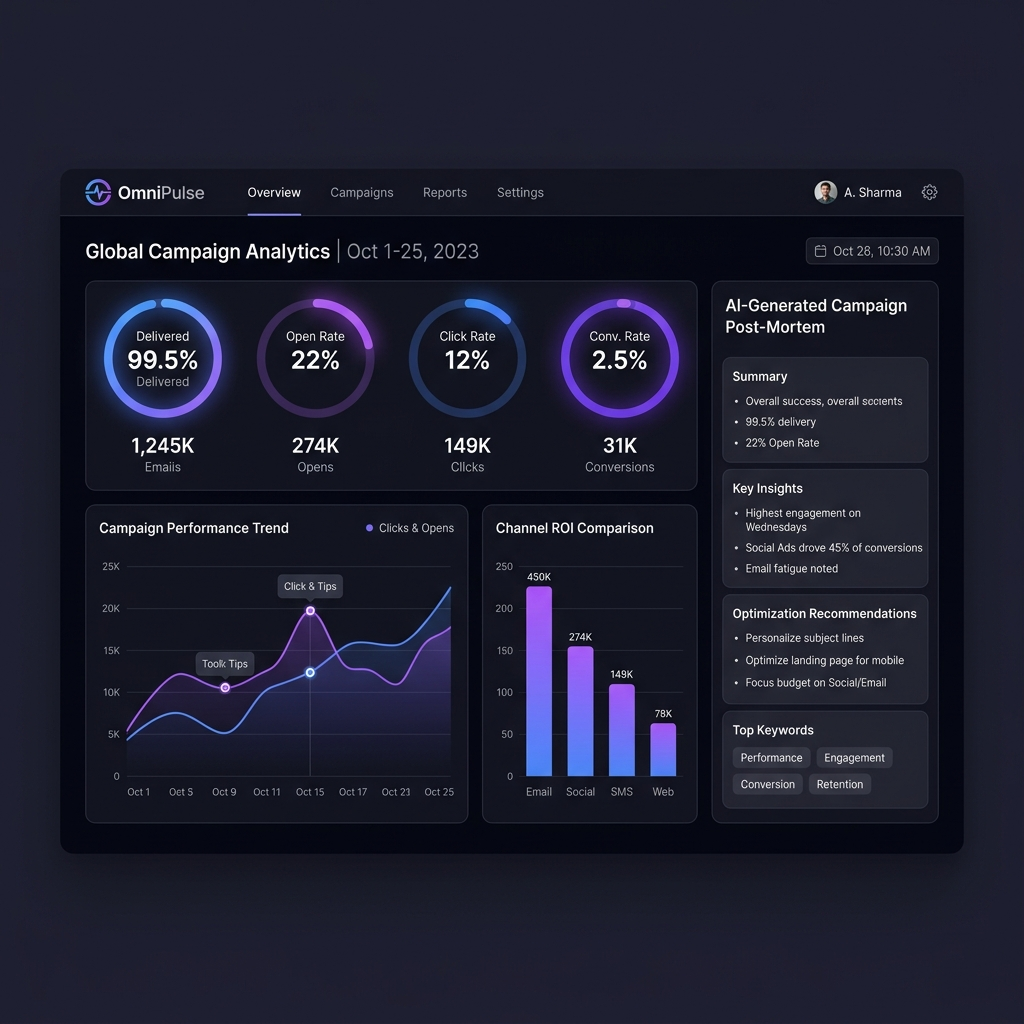
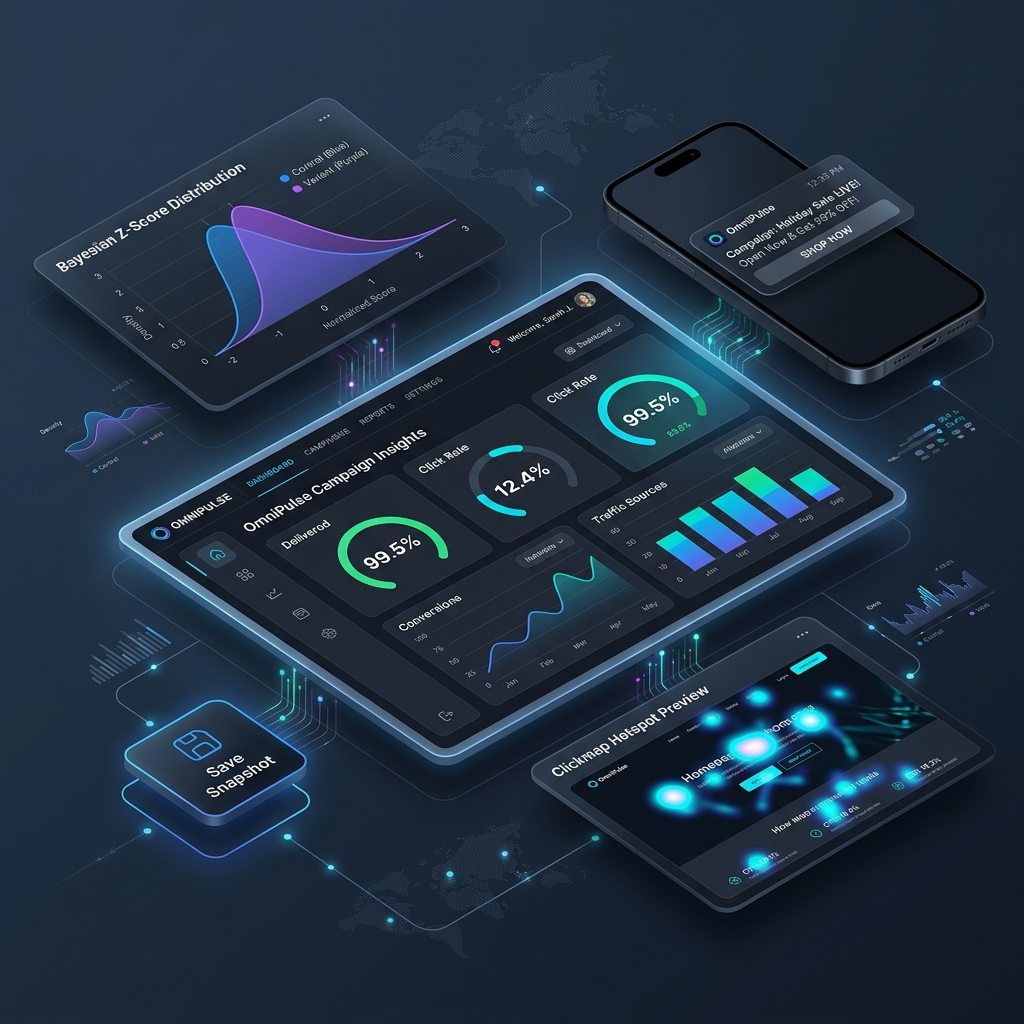
style: fix phone mockup styles and improve grid responsiveness on mobile viewports

diff --git a/src/components/AbSandbox.jsx b/src/components/AbSandbox.jsx
@@ -101,7 +101,7 @@ export default function AbSandbox({ campaign }) {
         <div style={{ display: 'flex', flexDirection: 'column', gap: '1rem', marginTop: '0.5rem' }}>
           <div style={{ borderBottom: '1px solid var(--border-color)', paddingBottom: '1rem' }}>
             <h4 style={{ fontSize: '0.85rem', fontWeight: '600', color: 'var(--accent-blue)', marginBottom: '0.75rem' }}>🔵 Variant A (Baseline)</h4>
-            <div style={{ display: 'grid', gridTemplateColumns: '1fr 1fr', gap: '1rem' }}>
+            <div className="grid-compact-2col">
               <div className="form-group" style={{ margin: 0 }}>
                 <label className="form-label" style={{ fontSize: '0.78rem' }}>Volume Sent</label>
                 <input type="number" className="form-input" value={sentA} onChange={(e) => setSentA(Math.max(1, parseInt(e.target.value) || 0))} style={{ fontSize: '0.85rem' }} />
@@ -112,10 +112,10 @@ export default function AbSandbox({ campaign }) {
               </div>
             </div>
           </div>
-
+ 
           <div>
             <h4 style={{ fontSize: '0.85rem', fontWeight: '600', color: 'var(--accent-purple)', marginBottom: '0.75rem' }}>🟣 Variant B (Challenger)</h4>
-            <div style={{ display: 'grid', gridTemplateColumns: '1fr 1fr', gap: '1rem' }}>
+            <div className="grid-compact-2col">
               <div className="form-group" style={{ margin: 0 }}>
                 <label className="form-label" style={{ fontSize: '0.78rem' }}>Volume Sent</label>
                 <input type="number" className="form-input" value={sentB} onChange={(e) => setSentB(Math.max(1, parseInt(e.target.value) || 0))} style={{ fontSize: '0.85rem' }} />
@@ -128,7 +128,7 @@ export default function AbSandbox({ campaign }) {
           </div>
         </div>
       </div>
-
+ 
       {/* Right Panel: Distribution charts & Stats results */}
       <div className="panel" style={{ display: 'flex', flexDirection: 'column', gap: '1.25rem' }}>
         <h3 style={{ fontSize: '1.05rem', fontWeight: '700' }}>Confidence & Probability Curves</h3>
@@ -168,9 +168,9 @@ export default function AbSandbox({ campaign }) {
             </span>
           </div>
         </div>
-
+ 
         {/* Statistical calculations dashboard */}
-        <div style={{ display: 'grid', gridTemplateColumns: '1fr 1fr', gap: '1rem', marginTop: '0.5rem' }}>
+        <div className="grid-compact-2col" style={{ marginTop: '0.5rem' }}>
           <div style={{ padding: '0.85rem', backgroundColor: 'var(--bg-tertiary)', borderRadius: 'var(--border-radius-md)', border: '1px solid var(--border-color)', textAlign: 'center' }}>
             <div style={{ fontSize: '0.75rem', color: 'var(--text-muted)', textTransform: 'uppercase' }}>Statistical Confidence</div>
             <div style={{ fontSize: '1.5rem', fontWeight: '800', marginTop: '0.2rem', color: stats.isSignificant ? 'var(--success)' : 'var(--warning)' }}>

diff --git a/src/index.css b/src/index.css
@@ -620,3 +620,40 @@ h1, h2, h3, h4, h5, h6 {
   }
 }
 
+/* Phone Mockup Styling for Visual Attribution previews */
+.phone-wrapper {
+  display: flex;
+  justify-content: center;
+  align-items: center;
+  flex: 1;
+}
+
+.phone-mockup {
+  background-color: #000;
+  border: 10px solid #1f2937;
+  box-shadow: 0 20px 50px rgba(0, 0, 0, 0.5);
+  position: relative;
+  overflow: hidden;
+  display: flex;
+  flex-direction: column;
+}
+
+.phone-notch {
+  background-color: #1f2937;
+  border-radius: 0 0 12px 12px;
+  position: absolute;
+  top: 0;
+  left: 50%;
+  transform: translate(-50%);
+  z-index: 10;
+}
+
+@media (max-width: 768px) {
+  .phone-wrapper {
+    overflow-x: auto;
+    max-width: 100%;
+    padding: 0.5rem;
+    box-sizing: border-box;
+  }
+}
+

diff --git a/src/components/LogicAuditor.jsx b/src/components/LogicAuditor.jsx
@@ -88,13 +88,11 @@ export default function LogicAuditor({ campaign }) {
         </table>
       </div>
 
-      <div style={{
-        display: 'grid',
-        gridTemplateColumns: '1fr 1fr',
-        gap: '1.25rem',
+      <div className="grid-compact-2col" style={{
         marginTop: '1rem',
         borderTop: '1px solid var(--border-color)',
-        paddingTop: '1.5rem'
+        paddingTop: '1.5rem',
+        gap: '1.25rem'
       }}>
         <div style={{ display: 'flex', gap: '0.75rem', padding: '1rem', backgroundColor: 'var(--bg-tertiary)', borderRadius: 'var(--border-radius-md)', border: '1px solid var(--border-color)' }}>
           <Layers size={16} style={{ color: 'var(--accent-purple)', flexShrink: 0, marginTop: '2px' }} />
